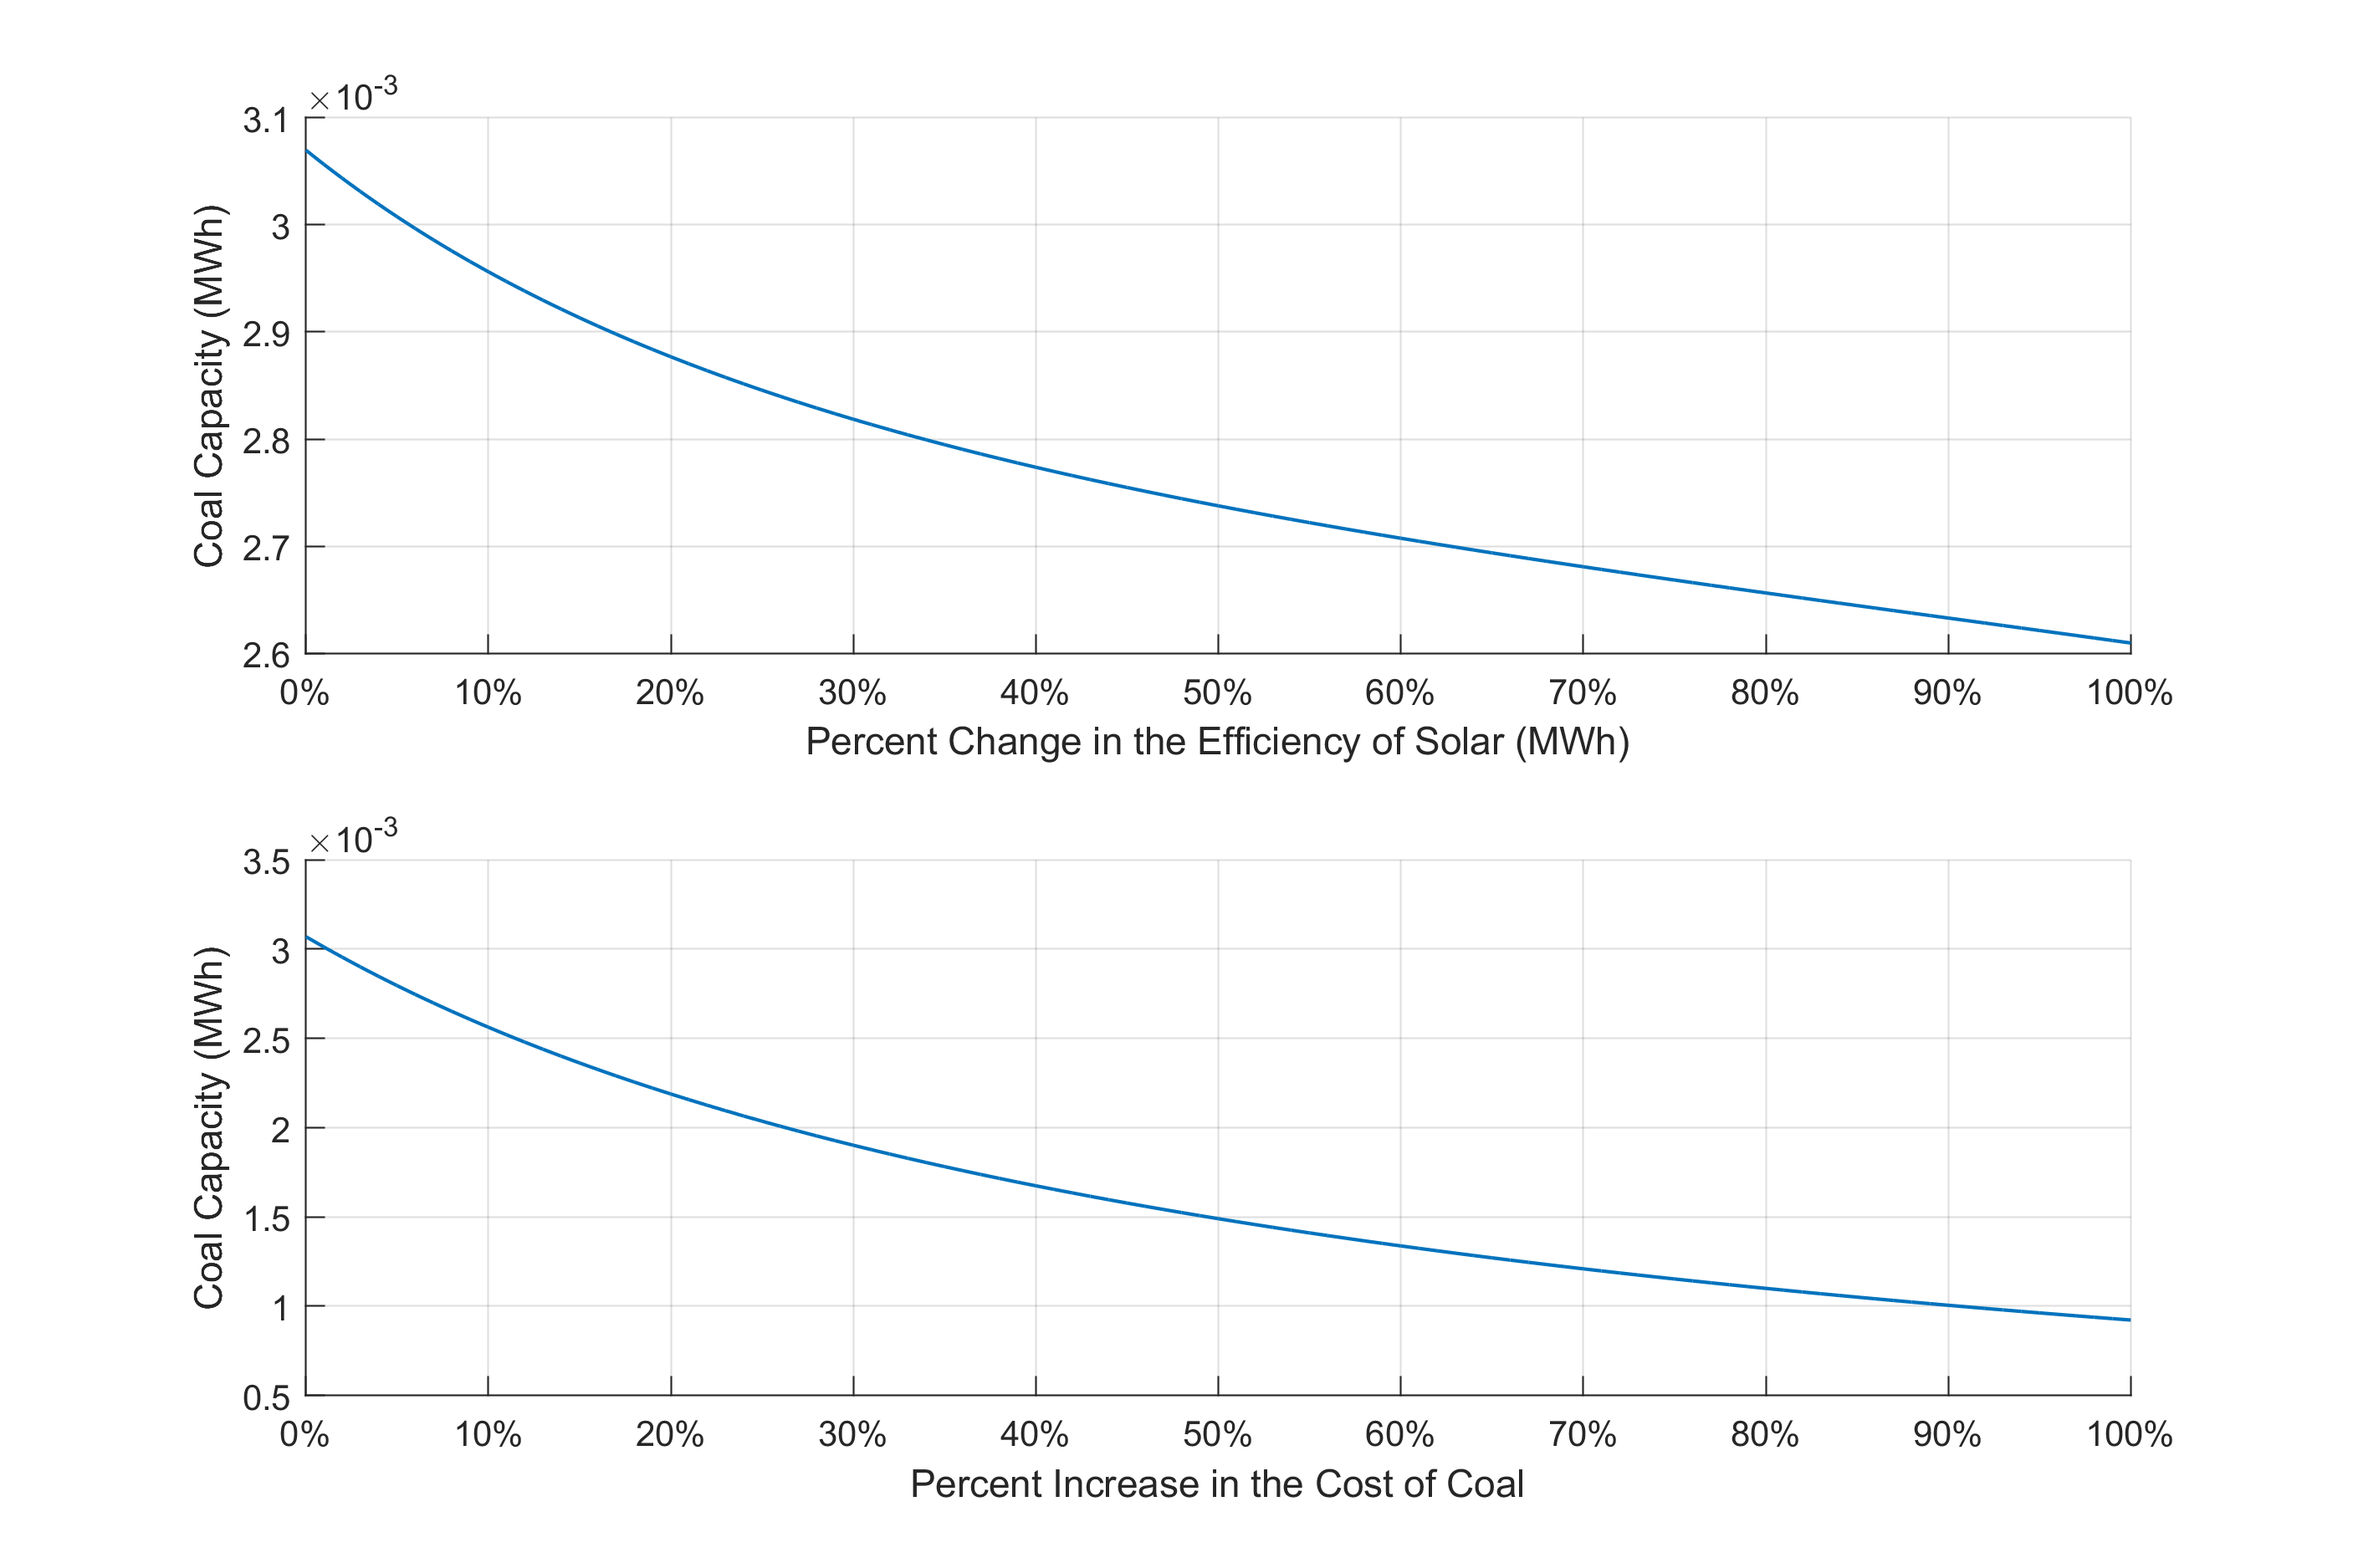
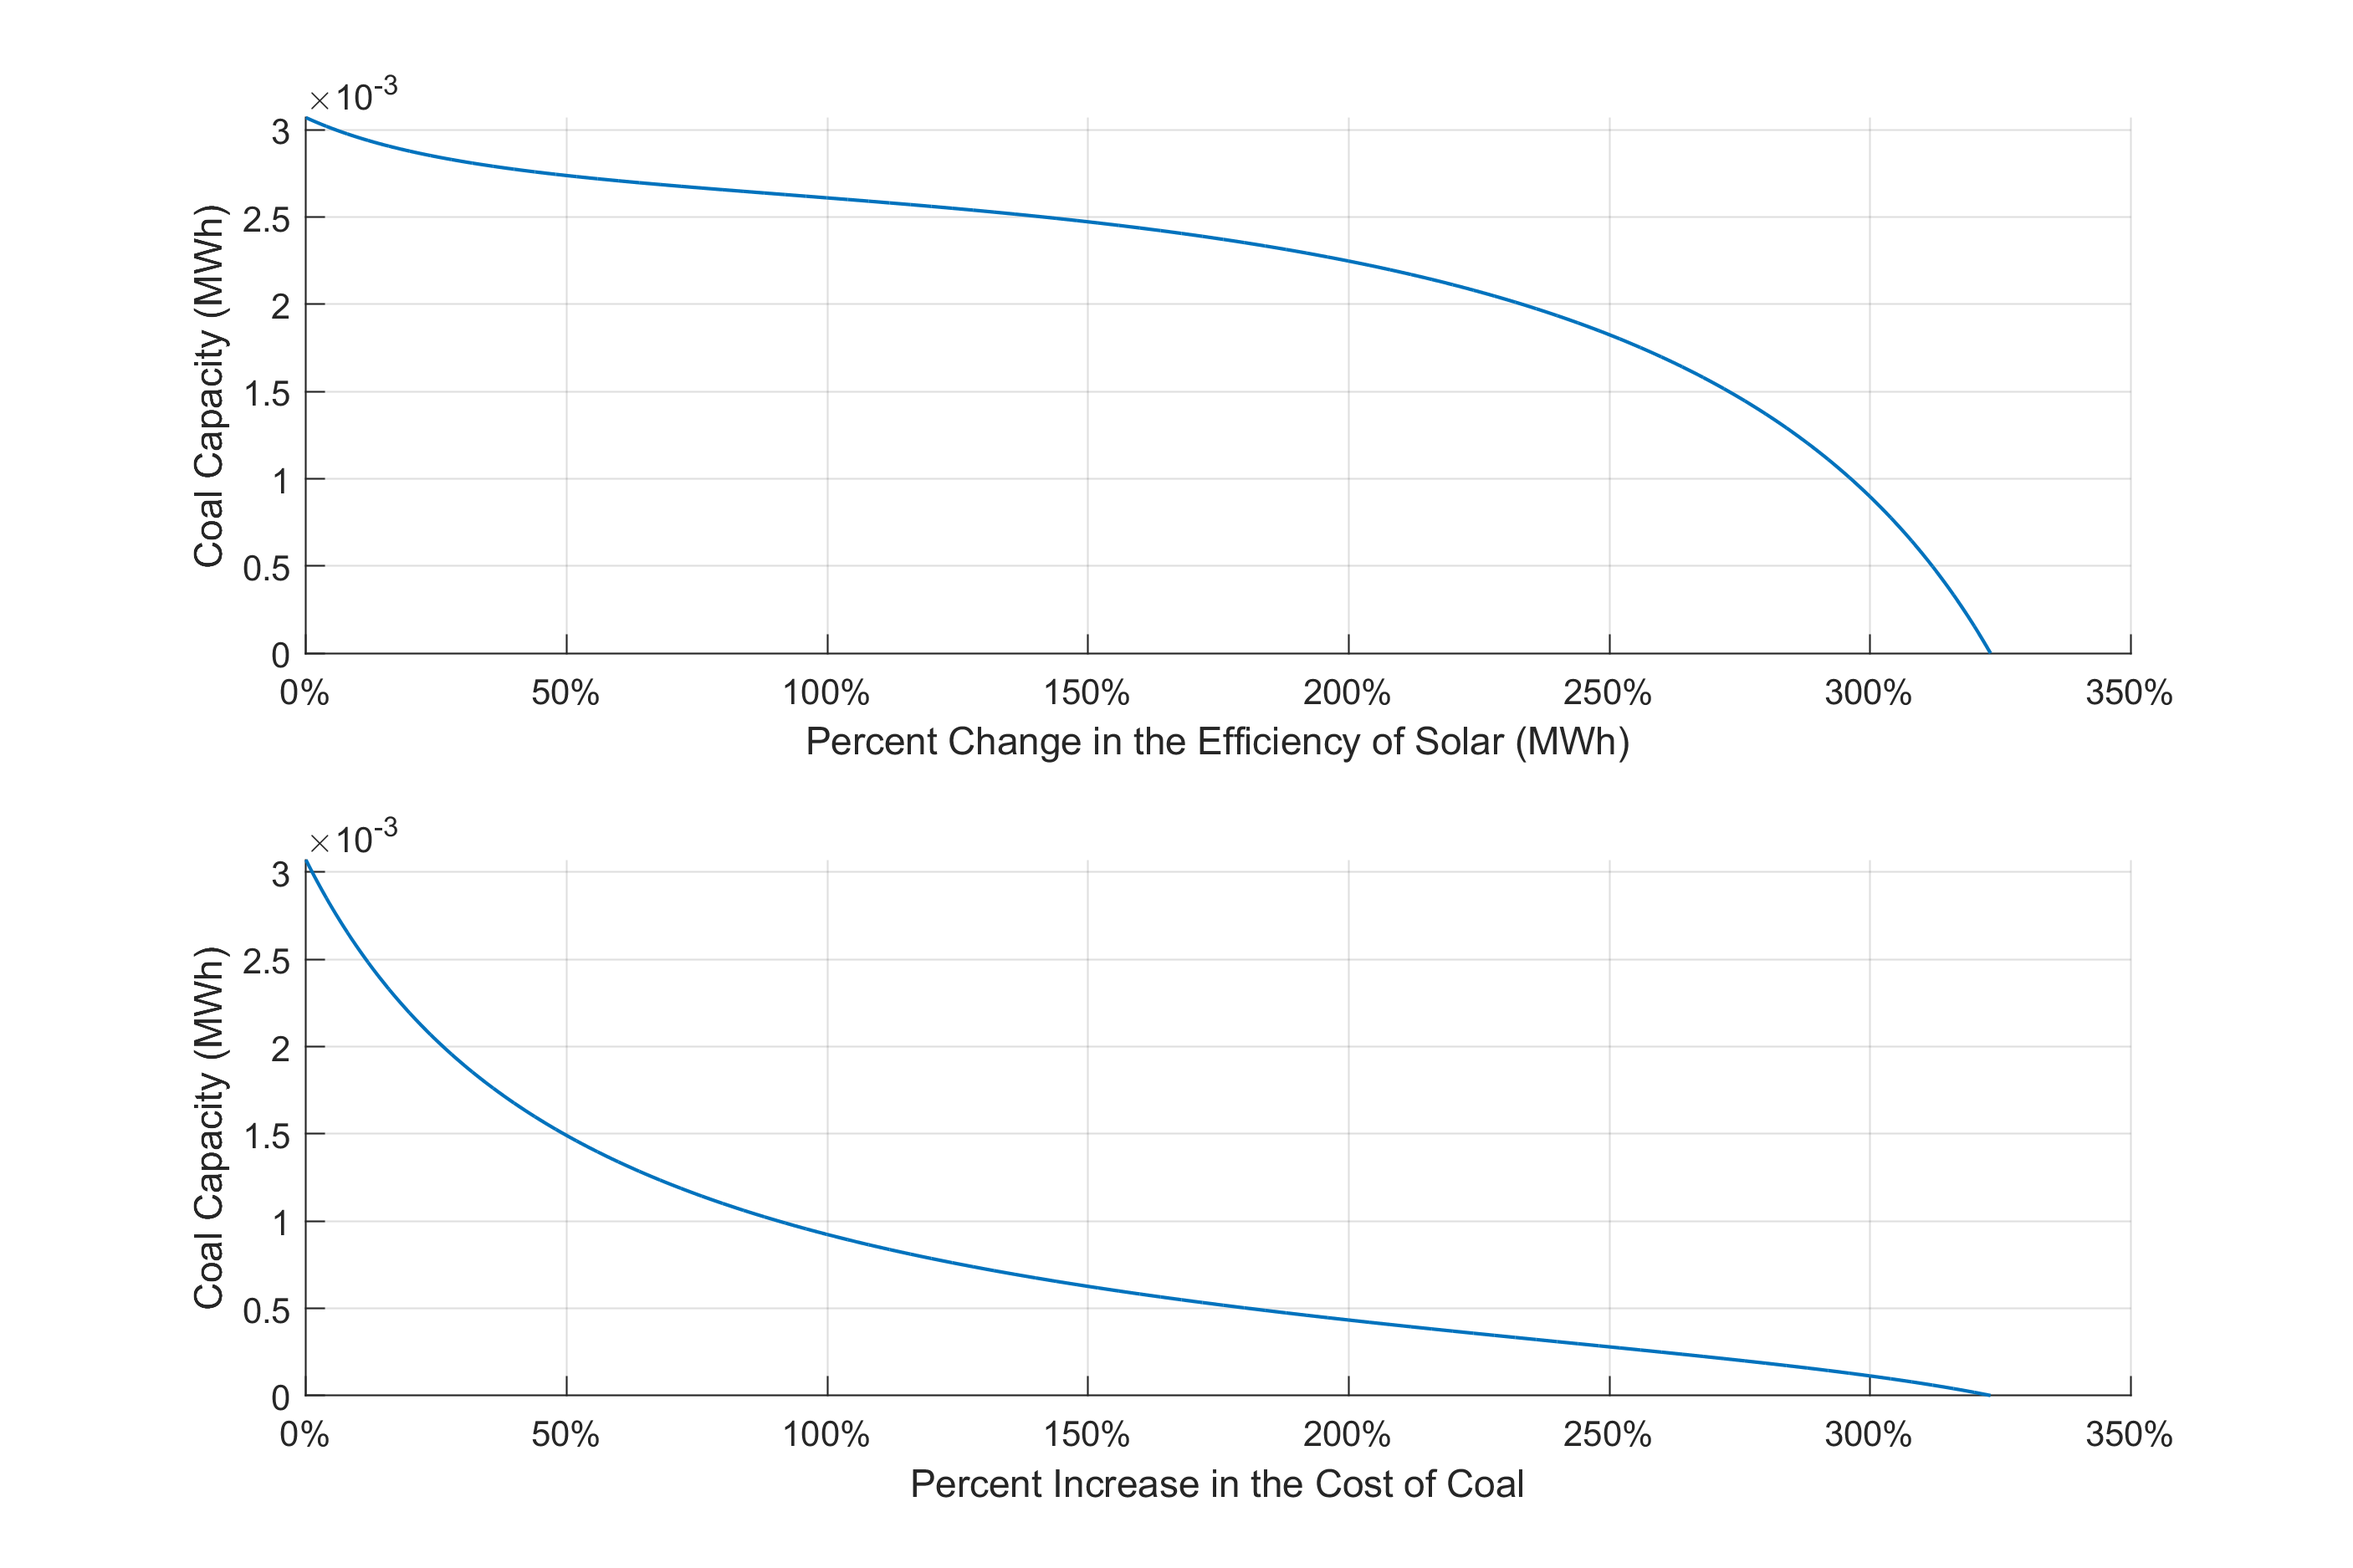
Update simulation code
- fix sigma case
- regenerate plots

diff --git a/code/matlab/simulation_april/sim_opt_policy.m b/code/matlab/simulation_april/sim_opt_policy.m
@@ -1,0 +1,88 @@
+%% Optimal policy with just tax
+
+beta = 0;
+n = 10000;
+tau_range = linspace(0,140,n);
+results = zeros(n,1);
+
+
+for i = 1:n
+
+    tau = tau_range(i);
+    output = sim_function([1+beta, tau]);
+    welfare = output(3) + output(4) + output(5);
+    results(i) = welfare;
+
+end
+
+plot(tau_range, results)
+[M, I] = max(results);
+tau_range(I)
+
+
+%% Optimal policy with just subsidy
+
+tau = 0;
+n = 1000;
+beta_range = linspace(0,4,n);
+results = zeros(n,1);
+
+
+for j = 1:n
+
+    beta = beta_range(j);
+    output = sim_function([1+beta, tau]);
+    welfare = output(3) + output(4) + output(5);
+    results(j) = welfare;
+
+    if (output(1) < 0) || (output(2) < 0)
+        results(j) = nan;
+    end
+    
+end
+
+plot(beta_range, results)
+[M, I] = max(results);
+beta_range(I)
+
+
+%% Optimal policy with both
+
+n = 500;
+[tau_range, beta_range] = meshgrid(linspace(60,80,n), linspace(0,1,n));
+results = zeros(n,n);
+
+
+for i = 1:n      % tau
+    for j = 1:n  % beta
+           
+        tau = tau_range(i,j);
+        beta = beta_range(i,j);
+        output = sim_function([1+beta, tau]);
+        welfare = output(3) + output(4) + output(5);
+        results(i,j) = welfare;
+
+        if ((output(1) < 0) || (output(2) < 0) ||  ~isreal(welfare))
+            results(i,j) = nan;
+        end
+
+    end
+end
+
+disp('Done')
+
+mesh(tau_range, beta_range, results)
+
+%%
+
+% beta = 0 case
+[M, I] = max(results(1,:));
+tau_range(I)
+
+% general case
+[M, I] = max(results(:));
+[beta_range(I) tau_range(I)]
+
+
+
+

diff --git a/code/matlab/simulation_april/sim_tax_subsidy.m b/code/matlab/simulation_april/sim_tax_subsidy.m
@@ -4,7 +4,7 @@ close all; clear; clc;
 
 % Simulation params
 n = 5000;
-research_multiplier = linspace(1,2,n);
+research_multiplier = linspace(1,5,n);
 sigma_range = [0.5];
 m = length(sigma_range);
 
@@ -42,7 +42,10 @@ for j = 1:m
 
         % Price Index
         P = ((1/2) * (prices'.^(1-sigma))*(alpha'.^sigma)).^(1/(1-sigma));
-
+        if sigma == 1
+            P = 1;
+        end
+        
         % Quantities
         Y = ((alpha'./prices).^(sigma)) * (budget/P);
            
@@ -78,7 +81,7 @@ end
 xlabel('Percent Change in the Efficiency of Solar (MWh)')
 ylabel('Coal Capacity (MWh)')
 xtickformat('percentage')
-xlim([0, 100])
+xlim([0, 350])
 grid('on')
 
 
@@ -86,7 +89,7 @@ grid('on')
 
 % Simulation params
 n = 5000;
-cost_multiplier = linspace(1,2,n);
+cost_multiplier = linspace(1,5,n);
 sigma_range = [0.5];
 m = length(sigma_range);
 
@@ -122,7 +125,10 @@ for j = 1:m
 
         % Price Index
         P = ((1/2) * (prices'.^(1-sigma))*(alpha'.^sigma)).^(1/(1-sigma));
-
+        if sigma == 1
+            P = 1;
+        end
+        
         % Quantities
         Y = ((alpha'./prices).^(sigma)) * (budget/P);
            
@@ -157,7 +163,7 @@ subplot(2,1,2)
 xlabel('Percent Increase in the Cost of Coal')
 ylabel('Coal Capacity (MWh)')
 xtickformat('percentage')
-xlim([0, 100])
+xlim([0, 350])
 grid('on')
 
 % Save figure

diff --git a/code/matlab/simulation_april/sim_adoption_curve.m b/code/matlab/simulation_april/sim_adoption_curve.m
@@ -43,7 +43,10 @@ for j = 1:m
 
         % Price Index
         P = ((1/2) * (prices'.^(1-sigma))*(alpha'.^sigma)).^(1/(1-sigma));
-
+        if sigma == 1
+            P = 1;
+        end
+        
         % Quantities
         Y = ((alpha'./prices).^(sigma)) * (budget/P);
           
@@ -136,6 +139,9 @@ for j = 1:m
 
         % Price Index
         P = ((1/2) * (prices'.^(1-sigma))*(alpha'.^sigma)).^(1/(1-sigma));
+        if sigma == 1
+            P = 1;
+        end
 
         % Quantities
         Y = ((alpha'./prices).^(sigma)) * (budget/P);

diff --git a/code/matlab/simulation_april/sim_eos.m b/code/matlab/simulation_april/sim_eos.m
@@ -43,7 +43,10 @@ for j = 1:m
 
         % Price Index
         P = ((1/2) * (prices'.^(1-sigma))*(alpha'.^sigma)).^(1/(1-sigma));
-
+        if sigma == 1
+            P = 1;
+        end
+        
         % Quantities
         Y = ((alpha'./prices).^(sigma)) * (budget/P);
            
@@ -100,7 +103,7 @@ ylim([0 15])
 grid('on')
 
 % Add horizontal line at 1
-e_1_line = plot([-1.4, -0.2], [1,1], 'LineStyle', '--', 'Color', 'k');
+e_1_line = plot([-1.5, -0.2], [1,1], 'LineStyle', '--', 'Color', 'k');
 legend([e_1_line], ' e = 1');
 
 % Save figure

diff --git a/code/matlab/simulation_april/main.m b/code/matlab/simulation_april/main.m
@@ -43,13 +43,13 @@ f_aa = (-sim_function([0.99, 1.0]) + 2*sim_function([1, 1]) ...
 f_bb = (-sim_function([1.0, 0.99]) + 2*sim_function([1, 1]) ...
     - sim_function([1.0, 0.99]))/(0.01^2);
 
+% g = tax X1
+g_ab = f_ab(1);
+g_aa = f_aa(1);
+g_bb = f_bb(1);
 
-X1_ab = f_ab(1);
-X1_aa = f_aa(1);
-X1_bb = f_bb(1);
+g_Hes = [g_aa, g_ab; g_ab, g_bb];
 
-X1_Hes = [X1_aa, X1_ab; X1_ab, X1_bb];
-
-
+eig(-g_Hes)
 
 
